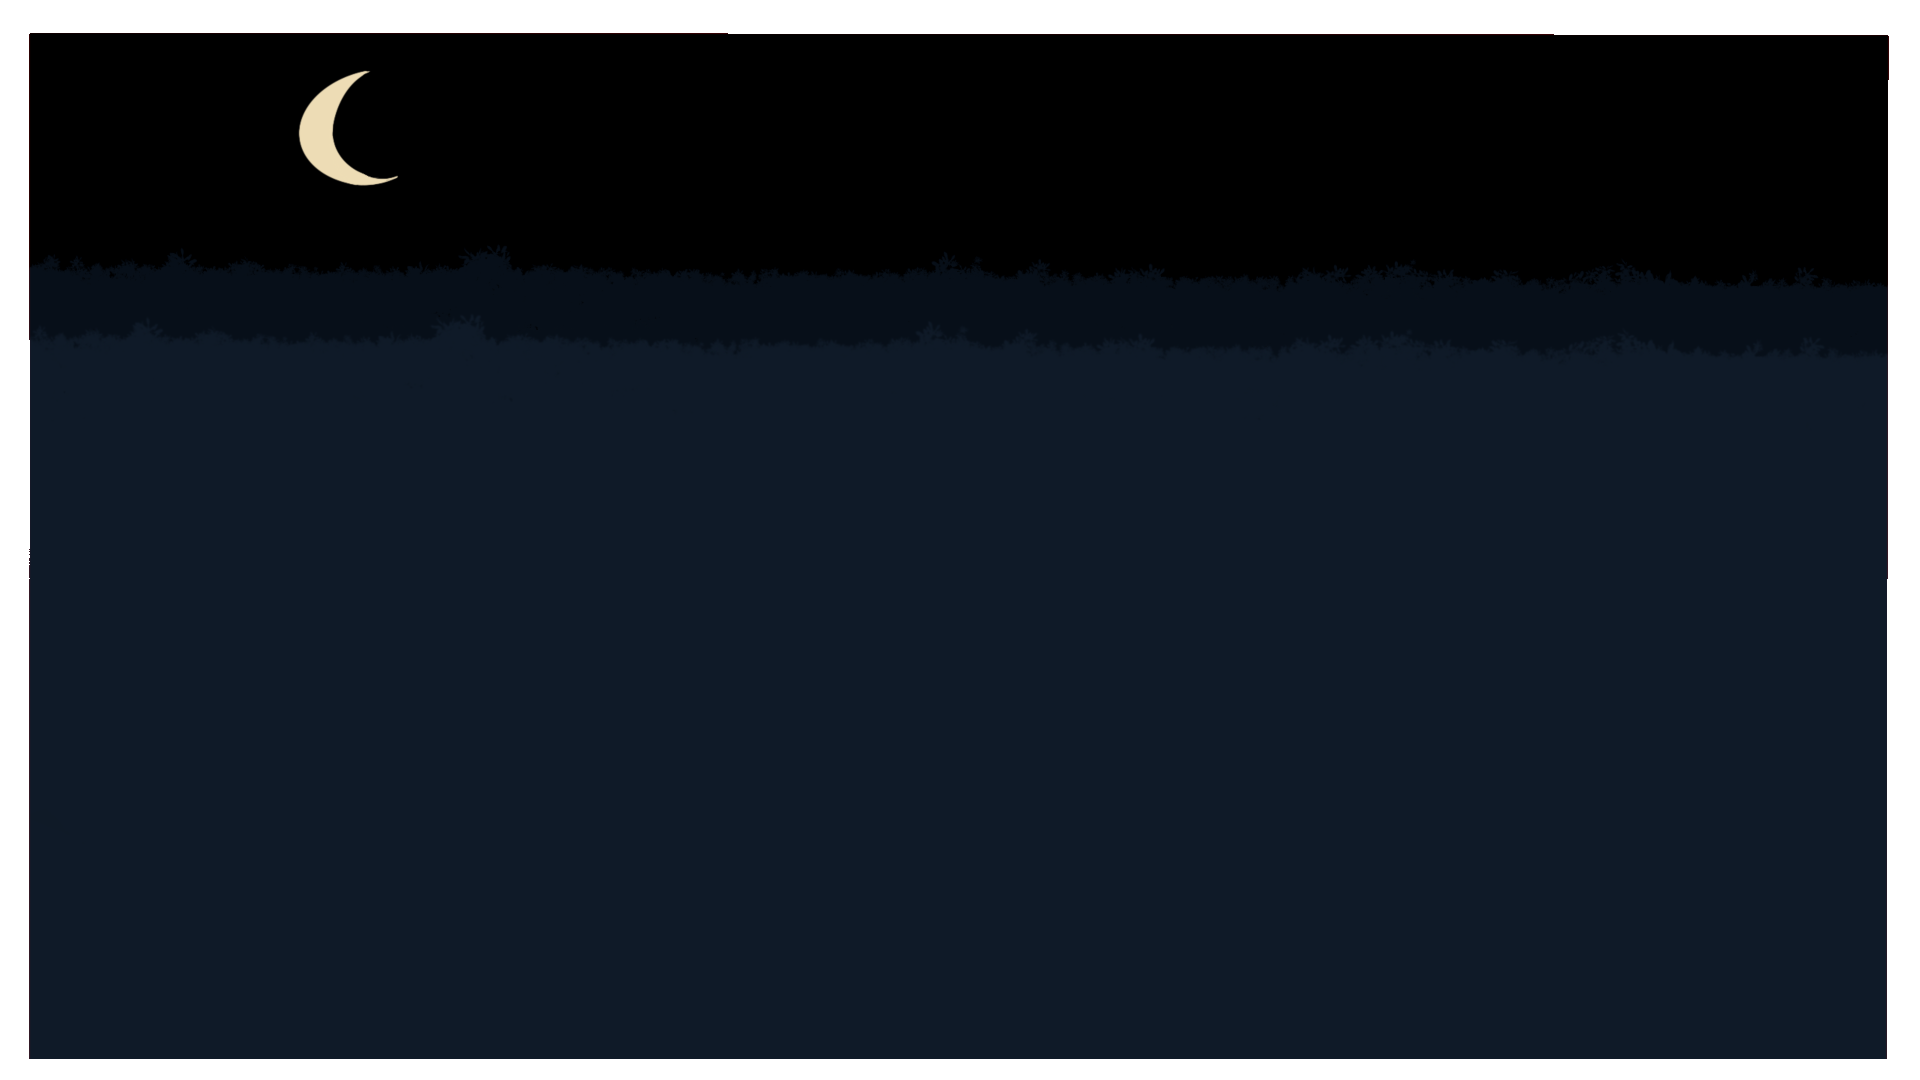
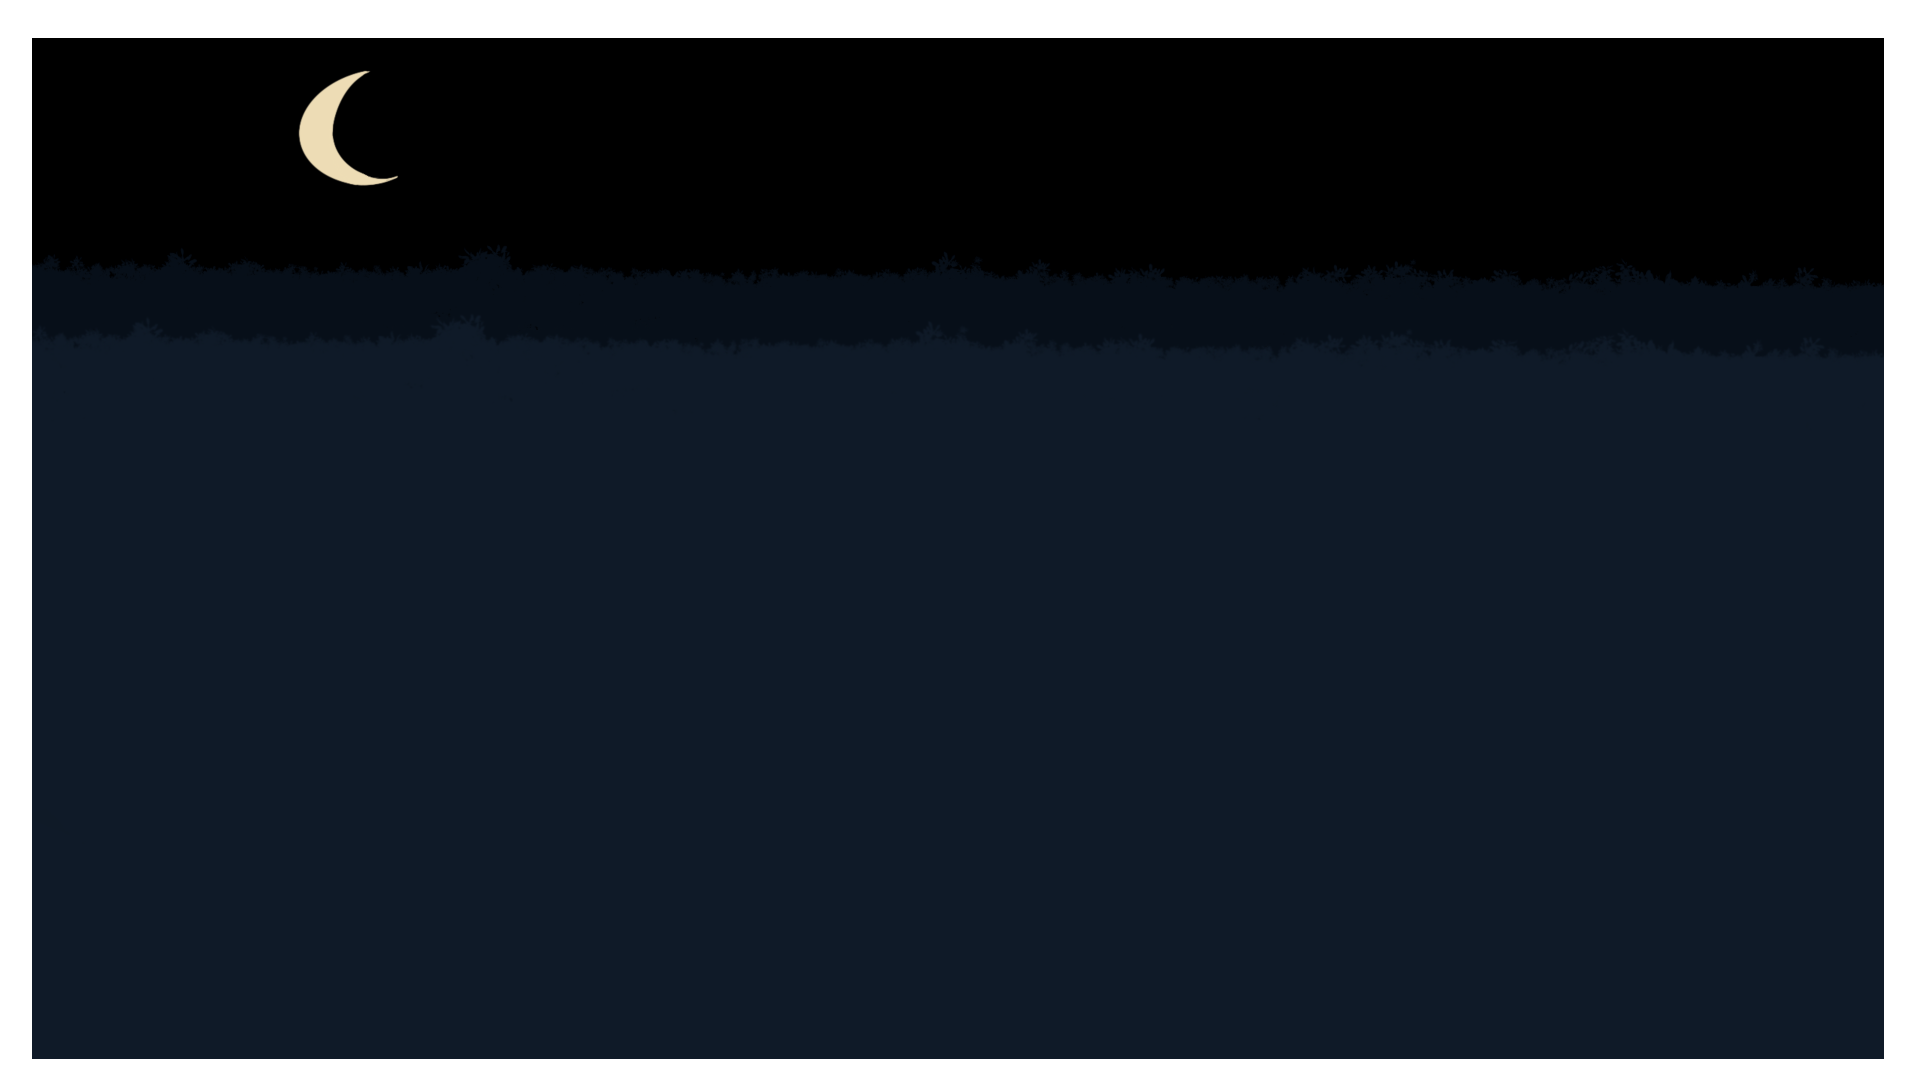
Improved portal and background stuff

Changed region(s): [[0.0, 0.0306, 0.8125, 0.0611], [0.9688, 0.0306, 1.0, 0.0611]]

diff --git a/src/environment.js b/src/environment.js
@@ -163,9 +163,9 @@ class Environment {
     image(
       this.backimg2,
       0,
-      -2474 / 2 - (this.image2.height * this.scale2) / 2,
-      this.backimg2.width * this.scale2,
-      this.backimg2.height * this.scale2
+      -2474 / 2 - (this.image2.height * this.scale2) / 2 + 60,
+      this.image2.width * this.scale2,
+      this.image2.height * this.scale2
     );
     this.drawSpriteColliders(185,300);
     // Draw door backImages
@@ -182,14 +182,14 @@ class Environment {
         0,
         //this.image.width * this.scale,
         //this.image.height * this.scale
-        3800,
-        2474
+        3800 + 2500,
+        2474 - 12
       );
 
       image(
         this.image2,
         0,
-        -2474 / 2 - (this.image2.height * this.scale2) / 2,
+        -2474 / 2 - (this.image2.height * this.scale2) / 2 + 60,
         this.image2.width * this.scale2,
         this.image2.height * this.scale2
       );
@@ -274,7 +274,7 @@ class Environment {
   // ----- Doors -----
   initDoors(doorImg, doorBackImg) {
     this.doors = [
-      new Door(doorImg, doorBackImg, -10, -1240, 200, 0)
+      new Door(doorImg, doorBackImg, -10, -1210, 200, 0)
     ];
   }
 
@@ -297,21 +297,23 @@ class Environment {
 //         }
       }
       
-      let speed = 0.06;
-      if (door.open) {
-        door.position.x += (door.open_pos.x - door.position.x) * speed * frame_factor;
-        door.position.y += (door.open_pos.y - door.position.y) * speed * frame_factor;
-        // door.position = door.open_pos;
-      } else {
-        door.position.x += (door.closed_pos.x - door.position.x) * speed * frame_factor;
-        door.position.y += (door.closed_pos.y - door.position.y) * speed * frame_factor;
-        // door.position = door.closed_pos;
-      }
+      // let speed = 0.06;
+      // if (door.open) {
+      //   door.position.x += (door.open_pos.x - door.position.x) * speed * frame_factor;
+      //   door.position.y += (door.open_pos.y - door.position.y) * speed * frame_factor;
+      //   // door.position = door.open_pos;
+      // } else {
+      //   door.position.x += (door.closed_pos.x - door.position.x) * speed * frame_factor;
+      //   door.position.y += (door.closed_pos.y - door.position.y) * speed * frame_factor;
+      //   // door.position = door.closed_pos;
+      // }
     }
   }
   
   // Draw doors. If backImgPass == true, draw backImage instead of image
   drawDoors(backImgPass) {
+    if (backImgPass && this.visible_players > 0) return;
+    if (!backImgPass && this.visible_players <= 0) return;
     for (let door of this.doors) {
       let img = (backImgPass) ? door.backImage : door.image;
       image(img, door.position.x, door.position.y, img.width * door.scale, img.height * door.scale);

diff --git a/src/sketch.js b/src/sketch.js
@@ -204,7 +204,7 @@ function pressedToStart() {
 
 // Called every frame to draw to the screen
 function draw() {
-  background(100);
+  background(0);
   if (click_to_start) {
     drawStartScreen();
   } else {
@@ -259,6 +259,7 @@ function windowResized() {
 // Draw the "press any key to start" screen
 function drawStartScreen() {
   push();
+  fill(100, 100, 100, 255);
   translate(width / 2, height / 2);
   textSize(64);
   textAlign(CENTER, CENTER);
